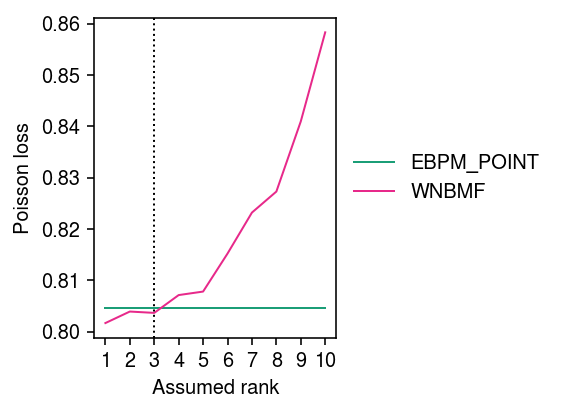
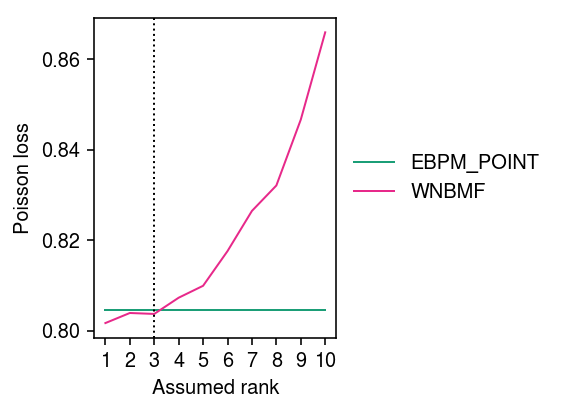
Rerun the simulated NB example

diff --git a/docs/imputation.html b/docs/imputation.html
@@ -1,7 +1,7 @@
 <!DOCTYPE html>
 <html lang="en">
 <head>
-<!-- 2019-12-04 Wed 19:30 -->
+<!-- 2019-12-04 Wed 23:00 -->
 <meta charset="utf-8">
 <meta name="viewport" content="width=device-width, initial-scale=1">
 <title>Imputation of count matrices</title>
@@ -272,16 +272,16 @@ for the JavaScript code in this tag.
 <li><a href="#results">Results</a>
 <ul>
 <li><a href="#simulation">Simulated Poisson example</a></li>
-<li><a href="#org7b6fb9c">Simulated NB example</a></li>
-<li><a href="#org92221a4">Imputation benchmark</a></li>
+<li><a href="#org05c8395">Simulated NB example</a></li>
+<li><a href="#orgfd4d399">Imputation benchmark</a></li>
 </ul>
 </li>
 </ul>
 </div>
 </div>
 
-<div id="outline-container-orga86d1f7" class="outline-2">
-<h2 id="introduction"><a id="orga86d1f7"></a>Introduction</h2>
+<div id="outline-container-orga364103" class="outline-2">
+<h2 id="introduction"><a id="orga364103"></a>Introduction</h2>
 <div class="outline-text-2" id="text-introduction">
 <p>
 The key idea of our approach to modeling scRNA-seq is to separate sampling
@@ -346,11 +346,11 @@ bound) <i>without</i> marginalizing over unobserved data.
 </div>
 </div>
 
-<div id="outline-container-orgcdabdd9" class="outline-2">
-<h2 id="setup"><a id="orgcdabdd9"></a>Setup</h2>
+<div id="outline-container-orgd313ff0" class="outline-2">
+<h2 id="setup"><a id="orgd313ff0"></a>Setup</h2>
 <div class="outline-text-2" id="text-setup">
 <div class="org-src-container">
-<pre class="src src-ipython" id="org8c7ca25"><span class="org-keyword">import</span> numpy <span class="org-keyword">as</span> np
+<pre class="src src-ipython" id="orgac614da"><span class="org-keyword">import</span> numpy <span class="org-keyword">as</span> np
 <span class="org-keyword">import</span> pandas <span class="org-keyword">as</span> pd
 <span class="org-keyword">import</span> scipy.stats <span class="org-keyword">as</span> st
 <span class="org-keyword">import</span> scmodes
@@ -372,12 +372,12 @@ bound) <i>without</i> marginalizing over unobserved data.
 </div>
 </div>
 
-<div id="outline-container-org0a82632" class="outline-2">
-<h2 id="methods"><a id="org0a82632"></a>Methods</h2>
+<div id="outline-container-orge24e3e1" class="outline-2">
+<h2 id="methods"><a id="orge24e3e1"></a>Methods</h2>
 <div class="outline-text-2" id="text-methods">
 </div>
-<div id="outline-container-org8aca765" class="outline-3">
-<h3 id="wnmf"><a id="org8aca765"></a>Weighted non-negative matrix factorization</h3>
+<div id="outline-container-org8f78969" class="outline-3">
+<h3 id="wnmf"><a id="org8f78969"></a>Weighted non-negative matrix factorization</h3>
 <div class="outline-text-3" id="text-wnmf">
 <p>
 Weighted non-negative matrix factorization (WNMF;
@@ -447,12 +447,14 @@ Negative Binomial Matrix Factorization (NBMF; Gouvert et al 2018) is the
 </p>
 
 \begin{align*}
-  x_{ij} &= \sum_k z_{ijk}\\
+  x_{ij} &= \sum_{k=1}^K z_{ijk}\\
   z_{ijk} &\sim \operatorname{Poisson}(l_{ik} f_{jk} u_{ij})\\
   u_{ij} &\sim \operatorname{Gamma}(1/\phi_{ij}, 1/\phi_{ij})
 \end{align*}
 
 <p>
+where the Gamma distribution is parameterized by a shape and a rate. (The
+mean of the Gamma distribution is 1, and its variance is \(\phi_{ij}\).)
 Gouvert et al. 2018 only consider the case \(\phi_{ij} = \phi\); however,
 other natural choices are \(\phi_{ij} = \phi_j\) and \(\phi_{ij} = \phi_i +
    \phi_j\). To derive an EM algorithm, first note that
@@ -461,18 +463,18 @@ other natural choices are \(\phi_{ij} = \phi_j\) and \(\phi_{ij} = \phi_i +
 <p>
 \[ p(\mz \mid \mx, \mU, \ml, \mf) 
    = p(\mz \mid \mx, \ml, \mf)
-   = \operatorname{Multinomial}(\cdot; x_{ij}, \frac{l_{i1} f_{j1}}{\sum_t l_{it} f_{jt}}, \ldots, \frac{l_{iK} f_{jK}}{\sum_t l_{it} f_{jt}}) \]
+   = \sum_{i, j} \operatorname{Multinomial}(\cdot; x_{ij}, \frac{l_{i1} f_{j1}}{\mu_{ij}}, \ldots, \frac{l_{iK} f_{jK}}{\mu_{ij}}) \]
 </p>
 
 <p>
-Further,
+where \(\mu_{ij} \triangleq \sum_t l_{it} f_{jt}\). Further,
 </p>
 
 \begin{align*}
   p(u_{ij} \mid \mx, \mz, \ml, \mf) &\propto p(\mx, \mz, u_{ij} \mid \ml, \mf)\\
   &\propto \prod_k u_{ij}^{z_{ijk}} \exp(-l_{ik} f_{jk} u_{ij}) u_{ij}^{1/\phi_{ij} - 1} \exp(-u_{ij} / \phi_{ij})\\
-  &\propto u_{ij}^{x_{ij} + 1/\phi_{ij} - 1} \exp\left(-u_{ij}\left(\left(\sum_k l_{ik} f_{jk}\right) + 1/\phi_{ij}\right)\right)\\
-  &= \operatorname{Gamma}(x_{ij} + 1/\phi_{ij}, \left(\sum_k l_{ik} f_{jk}\right) + 1/\phi_{ij})
+  &\propto u_{ij}^{x_{ij} + 1 / \phi_{ij} - 1} \exp\left(-u_{ij}\left(\mu_{ij} + 1 / \phi_{ij}\right)\right)\\
+  &= \operatorname{Gamma}(x_{ij} + 1 / \phi_{ij}, \mu_{ij} + 1 / \phi_{ij})
 \end{align*}
 
 <p>
@@ -480,8 +482,8 @@ The expected log joint
 </p>
 
 \begin{multline*}
-  h \triangleq \E{\ln p(\mx, \mz, \mU \mid \ml, \mf)} = \sum_{i, j, k} [\E{z_{ijk}}(\E{\ln u_{ij}} + \ln (l_{ik} f_{jk})) - l_{ik} f_{jk} \E{u_{ij}} - \ln\Gamma(x_{ij} + 1)]\\
-  + \sum_{i, j} [(1 / \phi_{ij}) \ln(1 / \phi_{ij}) + (\E{u_{ij}} - 1) \ln(1 / \phi_{ij}) - \E{u_{ij}}  /  \phi_{ij} - \ln\Gamma(1 / \phi_{ij})]
+  \ell \triangleq \E{\ln p(\mx, \mz, \mU \mid \ml, \mf)} = \sum_{i, j, k} [\E{z_{ijk}}(\E{\ln u_{ij}} + \ln (l_{ik} f_{jk})) - l_{ik} f_{jk} \E{u_{ij}} - \ln\Gamma(x_{ij} + 1)]\\
+  + \sum_{i, j} [(1 / \phi_{ij}) \ln(1 / \phi_{ij}) + (1 / \phi_{ij} - 1) \E{\ln u_{ij}} - \E{u_{ij}} / \phi_{ij} - \ln\Gamma(1 / \phi_{ij})]
 \end{multline*}
 
 <p>
@@ -497,15 +499,16 @@ yielding analytic M step updates
 Using properties of the Gamma distribution,
 </p>
 
-<p>
-\[ \E{u_{ij}} = \frac{x_{ij} + 1/\phi_{ij}}{\left(\sum_k l_{ik} f_{jk}\right) + 1 / \phi_{ij}} \]
-</p>
+\begin{align*}
+  \E{u_{ij}} &= \frac{x_{ij} + 1/\phi_{ij}}{\mu_{ij} + 1/\phi_{ij}}\\
+  \E{\ln u_{ij}} &= \psi(x_{ij} + 1 / \phi_{ij}) - \ln(\mu_{ij} + 1 / \phi_{ij})
+\end{align*}
 
 <p>
-Plugging in \(\E{z_{ijk}}\), \(\E{u_{ij}}\) yields the multiplicative
-updates of a form similar to WNMF. Following the arguments for WNMF, if we
-introduce weights \(w_{ij} \in \{0, 1\}\), they will enter the M step
-updates in the numerator and denominator.
+Plugging in \(\E{z_{ijk}}\), \(\E{u_{ij}}\) yields multiplicative updates of
+a form similar to WNMF. Following the arguments for WNMF, if we introduce
+weights \(w_{ij} \in \{0, 1\}\), they will enter the M step updates in the
+numerator and denominator.
 </p>
 
 <p>
@@ -516,8 +519,8 @@ straightforward (using e.g. Newton's method):
 </p>
 
 \begin{align*}
-  \frac{\partial h}{\partial \theta} &= \sum_{i, j} \Bigg[1 + \ln \theta + \frac{\E{u_{ij}} - 1}{\theta} - \E{u_{ij}} - \psi(\theta)\Bigg]\\
-  \frac{\partial^2 h}{\partial \theta^2} &= \sum_{i, j} \Bigg[\frac{1}{\theta} - \frac{\E{u_{ij}} - 1}{\theta^2} - \psi_1(\theta)\Bigg]
+  \frac{\partial \ell}{\partial \theta} &= \sum_{i, j} \Bigg[1 + \ln \theta + \E{\ln u_{ij}} - \E{u_{ij}} - \psi(\theta)\Bigg]\\
+  \frac{\partial^2 \ell}{\partial \theta^2} &= \sum_{i, j} \Bigg[\frac{1}{\theta} - \psi_1(\theta)\Bigg]
 \end{align*}
 
 <p>
@@ -528,8 +531,8 @@ denotes the trigamma function. It is clear that weights \(w_{ij} \in \{0,
 </div>
 </div>
 
-<div id="outline-container-org7735dc1" class="outline-3">
-<h3 id="wglmpca"><a id="org7735dc1"></a>Weighted GLM-PCA</h3>
+<div id="outline-container-org288f584" class="outline-3">
+<h3 id="wglmpca"><a id="org288f584"></a>Weighted GLM-PCA</h3>
 <div class="outline-text-3" id="text-wglmpca">
 <p>
 GLM-PCA (<a href="https://arxiv.org/abs/1907.02647">Townes 2019</a>) uses
@@ -547,8 +550,8 @@ the model assuming \(h = \log\). The weighted version of the problem is
 </div>
 </div>
 
-<div id="outline-container-org0786c11" class="outline-3">
-<h3 id="vae"><a id="org0786c11"></a>Incomplete data VAE</h3>
+<div id="outline-container-org52c6bb5" class="outline-3">
+<h3 id="vae"><a id="org52c6bb5"></a>Incomplete data VAE</h3>
 <div class="outline-text-3" id="text-vae">
 <p>
 Variational autoencoders fit a generative model parameterized by a neural
@@ -604,11 +607,11 @@ works, and that a tighter bound can be achieved using importance sampling
 </div>
 </div>
 
-<div id="outline-container-org4846c95" class="outline-3">
-<h3 id="datasets"><a id="org4846c95"></a>Datasets</h3>
+<div id="outline-container-orgdb67a90" class="outline-3">
+<h3 id="datasets"><a id="orgdb67a90"></a>Datasets</h3>
 <div class="outline-text-3" id="text-datasets">
 <div class="org-src-container">
-<pre class="src src-ipython" id="orgb049ac8"><span class="org-keyword">def</span> <span class="org-function-name">_read_10x</span>(k, min_detect=0.01, n_cells=1000, seed=1):
+<pre class="src src-ipython" id="org2a19ee0"><span class="org-keyword">def</span> <span class="org-function-name">_read_10x</span>(k, min_detect=0.01, n_cells=1000, seed=1):
   <span class="org-keyword">return</span> scmodes.dataset.read_10x(f<span class="org-string">'/project2/mstephens/aksarkar/projects/singlecell-ideas/data/10xgenomics/{k}/filtered_matrices_mex/hg19/'</span>, min_detect=0.01, return_df=<span class="org-constant">True</span>).sample(n=n_cells, axis=0, random_state=seed)
 
 <span class="org-keyword">def</span> <span class="org-function-name">_mix_10x</span>(k1, k2, min_detect=0.01, n_cells=1000, seed=1):
@@ -676,12 +679,12 @@ dtype: float64
 </div>
 </div>
 
-<div id="outline-container-orgaa1a22b" class="outline-2">
-<h2 id="results"><a id="orgaa1a22b"></a>Results</h2>
+<div id="outline-container-org2d627c5" class="outline-2">
+<h2 id="results"><a id="org2d627c5"></a>Results</h2>
 <div class="outline-text-2" id="text-results">
 </div>
-<div id="outline-container-org303c4d5" class="outline-3">
-<h3 id="simulation"><a id="org303c4d5"></a>Simulated Poisson example</h3>
+<div id="outline-container-org3e578ad" class="outline-3">
+<h3 id="simulation"><a id="org3e578ad"></a>Simulated Poisson example</h3>
 <div class="outline-text-3" id="text-simulation">
 <p>
 Simulate some data where \([\lambda_{ij}]\) is rank 3.
@@ -859,9 +862,9 @@ plt.tight_layout()
 </div>
 </div>
 
-<div id="outline-container-org7b6fb9c" class="outline-3">
-<h3 id="org7b6fb9c">Simulated NB example</h3>
-<div class="outline-text-3" id="text-org7b6fb9c">
+<div id="outline-container-org05c8395" class="outline-3">
+<h3 id="org05c8395">Simulated NB example</h3>
+<div class="outline-text-3" id="text-org05c8395">
 <p>
 Simulate some data from the model.
 </p>
@@ -881,7 +884,7 @@ Simulate some data from the model.
 </div>
 
 <p>
-Run the methods. In WNBMF, fix the inverse dispersion to the oracle value.
+Run the methods. For WNBMF, initialize at the oracle value.
 </p>
 
 <div class="org-src-container">
@@ -889,7 +892,7 @@ Run the methods. In WNBMF, fix the inverse dispersion to the oracle value.
 <span class="org-keyword">for</span> rank <span class="org-keyword">in</span> <span class="org-builtin">range</span>(1, 11):
   <span class="org-keyword">for</span> method <span class="org-keyword">in</span> (<span class="org-string">'oracle'</span>, <span class="org-string">'ebpm_point'</span>, <span class="org-string">'wnmf'</span>, <span class="org-string">'wglmpca'</span>, <span class="org-string">'wnbmf'</span>):
     <span class="org-keyword">try</span>:
-      <span class="org-variable-name">loss</span> = <span class="org-builtin">getattr</span>(scmodes.benchmark, f<span class="org-string">'imputation_score_{method}'</span>)(x, rank=rank, frac=0.1, seed=0, inv_disp=inv_disp)
+      <span class="org-variable-name">loss</span> = <span class="org-builtin">getattr</span>(scmodes.benchmark, f<span class="org-string">'imputation_score_{method}'</span>)(x, rank=rank, frac=0.1, seed=0, inv_disp=inv_disp, fix_inv_disp=<span class="org-constant">False</span>)
     <span class="org-keyword">except</span> <span class="org-type">RuntimeError</span>:
       <span class="org-comment-delimiter"># </span><span class="org-comment">WGLMPCA fails often</span>
       <span class="org-variable-name">loss</span> = np.nan
@@ -951,9 +954,9 @@ plt.tight_layout()
 </div>
 </div>
 
-<div id="outline-container-org92221a4" class="outline-3">
-<h3 id="org92221a4">Imputation benchmark</h3>
-<div class="outline-text-3" id="text-org92221a4">
+<div id="outline-container-orgfd4d399" class="outline-3">
+<h3 id="orgfd4d399">Imputation benchmark</h3>
+<div class="outline-text-3" id="text-orgfd4d399">
 <div class="org-src-container">
 <pre class="src src-sh">sbatch --partition=broadwl -n1 -c28 --exclusive --time=12:00:00 --job-name=imputation-benchmark -a 0-5
 <span class="org-comment-delimiter">#</span><span class="org-comment">!/bin/bash</span>
@@ -1066,7 +1069,7 @@ fig.tight_layout()
 </div>
 <div id="postamble" class="status">
 <p class="author">Author: Abhishek Sarkar</p>
-<p class="date">Created: 2019-12-04 Wed 19:30</p>
+<p class="date">Created: 2019-12-04 Wed 23:00</p>
 <p class="validation"><a href="http://validator.w3.org/check?uri=referer">Validate</a></p>
 </div>
 </body>
